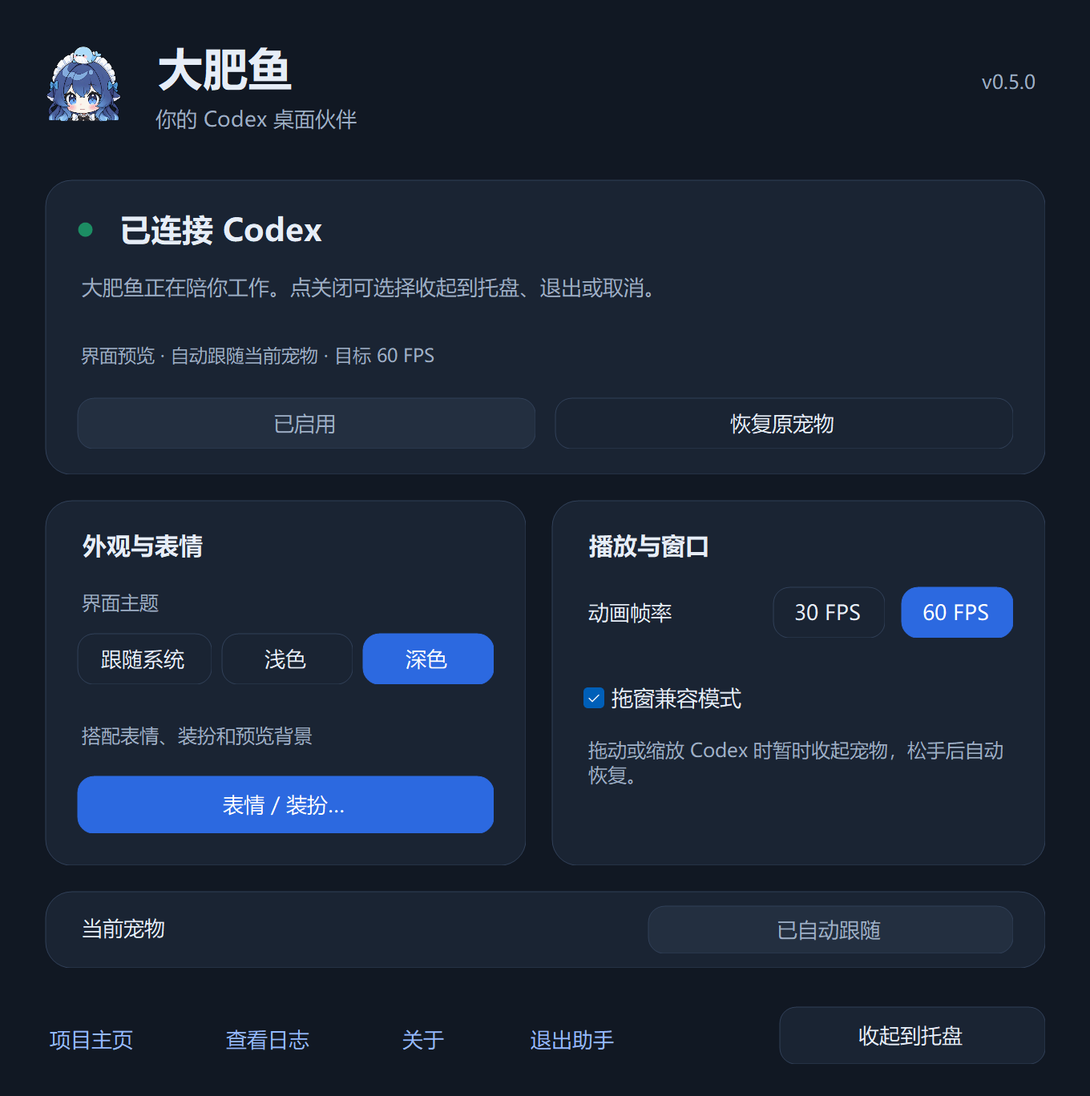
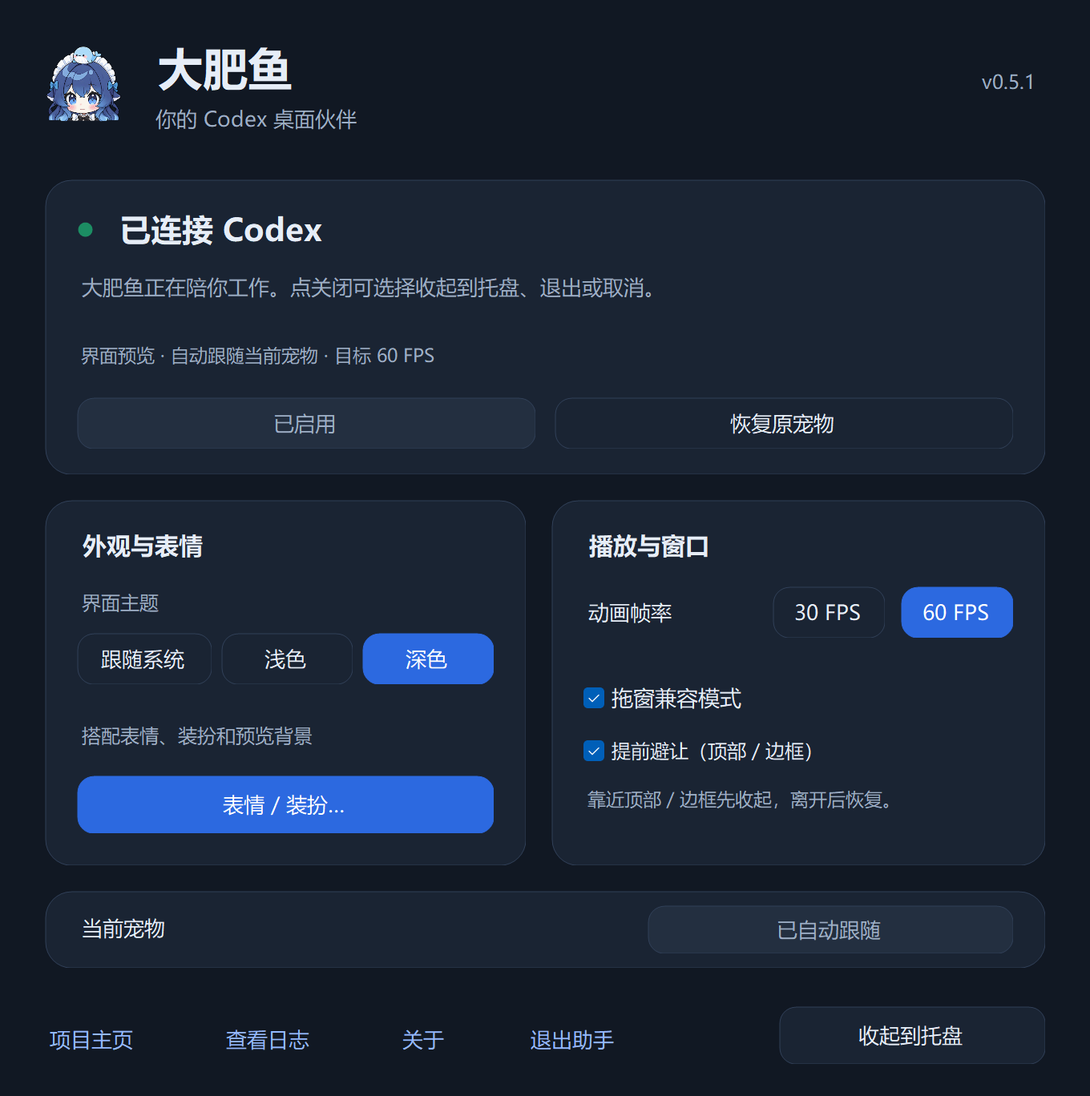
Add optional early avoidance before dragging Codex windows

Changed region(s): [[0.525, 0.6754, 0.9265, 0.7368], [0.9265, 0.0614, 0.9574, 0.0921]]

diff --git a/native/NativeDragGuard.cs b/native/NativeDragGuard.cs
@@ -8,6 +8,7 @@ internal sealed class NativeDragGuard : IDisposable {
     private delegate void EventCallback(IntPtr hook,uint evt,IntPtr window,int objectId,int childId,uint thread,uint time);
     private delegate bool WindowCallback(IntPtr window,IntPtr parameter);
     [StructLayout(LayoutKind.Sequential)] private struct Bounds { public int left,top,right,bottom; }
+    [StructLayout(LayoutKind.Sequential)] private struct Point { public int x,y; }
     [StructLayout(LayoutKind.Sequential)] private struct GuiInfo { public uint size,flags;public IntPtr active,focus,capture,menu,movesize,caret;public int left,top,right,bottom; }
     [DllImport("user32.dll")] private static extern IntPtr SetWinEventHook(uint min,uint max,IntPtr module,EventCallback callback,uint process,uint thread,uint flags);
     [DllImport("user32.dll")] private static extern bool UnhookWinEvent(IntPtr hook);
@@ -19,24 +20,41 @@ internal sealed class NativeDragGuard : IDisposable {
     [DllImport("user32.dll")] private static extern bool IsWindow(IntPtr window);
     [DllImport("user32.dll")] private static extern bool IsWindowVisible(IntPtr window);
     [DllImport("user32.dll")] private static extern bool ShowWindowAsync(IntPtr window,int command);
+    [DllImport("user32.dll")] private static extern bool GetCursorPos(out Point point);
+    [DllImport("user32.dll")] private static extern IntPtr WindowFromPoint(Point point);
+    [DllImport("user32.dll")] private static extern IntPtr GetAncestor(IntPtr window,uint flags);
+    [DllImport("user32.dll")] private static extern short GetAsyncKeyState(int key);
+    [DllImport("user32.dll")] private static extern uint GetDpiForWindow(IntPtr window);
+    [DllImport("user32.dll",CharSet=CharSet.Unicode)] private static extern IntPtr SendMessageTimeout(IntPtr window,uint message,IntPtr wparam,IntPtr lparam,uint flags,uint timeout,out UIntPtr result);
     private readonly Action<bool> changed;
+    private readonly Func<bool> sampleFrame;
     private readonly EventCallback callback;
     private readonly Timer watchdog=new Timer();
+    private readonly Timer proximity=new Timer();
     private IntPtr hook,window;
     private IntPtr petWindow;
     private bool fastHidden;
     private uint process,thread;
-    private bool moving;
+    private bool moving,avoiding,earlyAvoidance,nearFrame;
+    private DateTime lastNear;
     internal bool Registered { get { return hook!=IntPtr.Zero; } }
     internal int FastHideCount {get;private set;}
-    internal NativeDragGuard(Action<bool> action) { changed=action;callback=Receive;watchdog.Interval=250;watchdog.Tick+=delegate { CheckEnded(); }; }
+    internal NativeDragGuard(Action<bool> action) : this(action,null) {}
+    internal NativeDragGuard(Action<bool> action,Func<bool> frameSampler) {
+        changed=action;sampleFrame=frameSampler??PointerNearFrame;callback=Receive;
+        watchdog.Interval=250;watchdog.Tick+=delegate { CheckEnded(); };
+        proximity.Interval=32;proximity.Tick+=delegate { CheckProximity(); };
+    }
     internal void Configure(uint target,bool enabled) {
         target=enabled?target:0;if(target==process&&((target==0)||Registered))return;
-        if(hook!=IntPtr.Zero)UnhookWinEvent(hook);hook=IntPtr.Zero;SetMoving(false);petWindow=IntPtr.Zero;process=target;
+        if(hook!=IntPtr.Zero)UnhookWinEvent(hook);hook=IntPtr.Zero;nearFrame=false;SetMoving(false);PublishAvoidance();petWindow=IntPtr.Zero;process=target;
         if(target!=0){hook=SetWinEventHook(0xA,0xB,IntPtr.Zero,callback,target,0,0);if(hook==IntPtr.Zero)Program.UiLog("Window drag compatibility: native event registration unavailable.");}
+        UpdateProximityTimer();
     }
+    internal void SetEarlyAvoidance(bool value) {if(earlyAvoidance==value)return;earlyAvoidance=value;if(!value){nearFrame=false;PublishAvoidance();}UpdateProximityTimer();}
+    private void UpdateProximityTimer(){if(earlyAvoidance&&process!=0)proximity.Start();else proximity.Stop();}
     internal void TrackPet(uint target,int x,int y,int width,int height) {
-        if(target==0||target!=process||moving)return;
+        if(target==0||target!=process||avoiding)return;
         uint owner;if(petWindow!=IntPtr.Zero&&IsWindow(petWindow)){GetWindowThreadProcessId(petWindow,out owner);if(owner==target&&(GetStyle(petWindow,-20).ToInt64()&0x08000080)!=0)return;}
         petWindow=IntPtr.Zero;long best=120;
         EnumWindows(delegate(IntPtr candidate,IntPtr ignored){GetWindowThreadProcessId(candidate,out owner);Bounds r;if(owner!=target||!IsWindowVisible(candidate)||(GetStyle(candidate,-20).ToInt64()&0x08000080)==0||!GetWindowRect(candidate,out r))return true;long score=Math.Abs((long)r.left-x)+Math.Abs((long)r.top-y)+Math.Abs((long)(r.right-r.left)-width)+Math.Abs((long)(r.bottom-r.top)-height);if(score<best){best=score;petWindow=candidate;}return true;},IntPtr.Zero);
@@ -44,9 +62,37 @@ internal sealed class NativeDragGuard : IDisposable {
     private bool ValidPet(){uint owner;if(petWindow==IntPtr.Zero||!IsWindow(petWindow))return false;GetWindowThreadProcessId(petWindow,out owner);return owner==process&&(GetStyle(petWindow,-20).ToInt64()&0x08000080)!=0;}
     private void SetMoving(bool value) {
         if(moving==value)return;moving=value;
-        if(value){if(ValidPet()&&IsWindowVisible(petWindow))fastHidden=ShowWindowAsync(petWindow,0);if(fastHidden)FastHideCount++;watchdog.Start();}
-        else{watchdog.Stop();if(fastHidden&&ValidPet())ShowWindowAsync(petWindow,4);fastHidden=false;}
+        if(value)watchdog.Start();else watchdog.Stop();PublishAvoidance();
+    }
+    private void PublishAvoidance() {
+        bool value=moving||(earlyAvoidance&&nearFrame);if(avoiding==value)return;avoiding=value;
+        if(value){if(ValidPet()&&IsWindowVisible(petWindow))fastHidden=ShowWindowAsync(petWindow,0);if(fastHidden)FastHideCount++;}
+        else{if(fastHidden&&ValidPet())ShowWindowAsync(petWindow,4);fastHidden=false;}
         try { changed(value); } catch { Program.UiLog("Window drag compatibility: controller pipe unavailable."); }
+    }
+    private void CheckProximity() {
+        bool near=false;try{near=sampleFrame();}catch{near=false;}
+        if(near){nearFrame=true;lastNear=DateTime.UtcNow;}
+        // Keep a drag hidden across child windows and brief gaps at frame edges.
+        else if(!moving&&(!avoiding||(GetAsyncKeyState(1)&0x8000)==0)&&(DateTime.UtcNow-lastNear).TotalMilliseconds>=200)nearFrame=false;
+        PublishAvoidance();
+    }
+    internal static bool IsFrameArea(int hit,int x,int y,int left,int top,int right,int bottom,int dpi) {
+        if(x<left||x>=right||y<top||y>=bottom)return false;
+        if(hit==2||(hit>=10&&hit<=18))return true;
+        if(hit!=1&&hit!=3&&hit!=8&&hit!=9&&hit!=20&&hit!=21)return false;
+        int edge=Math.Max(4,(int)Math.Round(8*Math.Max(96,dpi)/96.0)),header=(int)Math.Round(48*Math.Max(96,dpi)/96.0);
+        return y-top<header||x-left<edge||right-x<=edge||bottom-y<=edge;
+    }
+    private bool PointerNearFrame() {
+        Point point;if(!GetCursorPos(out point))return false;IntPtr target=GetAncestor(WindowFromPoint(point),2);if(target==IntPtr.Zero)return false;
+        uint owner;GetWindowThreadProcessId(target,out owner);if(owner!=process||(GetStyle(target,-20).ToInt64()&0x08000080)!=0)return false;
+        Bounds r;if(!GetWindowRect(target,out r))return false;uint dpi=GetDpiForWindow(target);if(dpi==0)dpi=96;
+        if(!IsFrameArea(1,point.x,point.y,r.left,r.top,r.right,r.bottom,(int)dpi))return false;
+        // Query only the selected Codex frame, with a bounded wait. This does not forward input.
+        UIntPtr result;int packed=unchecked((point.x&0xffff)|((point.y&0xffff)<<16));
+        if(SendMessageTimeout(target,0x84,IntPtr.Zero,new IntPtr(packed),0x23,12,out result)==IntPtr.Zero)return false;
+        int hit=unchecked((int)result.ToUInt64());return IsFrameArea(hit,point.x,point.y,r.left,r.top,r.right,r.bottom,(int)dpi);
     }
     private void Receive(IntPtr source,uint evt,IntPtr target,int objectId,int childId,uint eventThread,uint time) {
         if(target==IntPtr.Zero||objectId!=0||childId!=0)return;
@@ -56,5 +102,5 @@ internal sealed class NativeDragGuard : IDisposable {
         window=target;thread=eventThread;SetMoving(true);
     }
     private void CheckEnded() { var info=new GuiInfo {size=(uint)Marshal.SizeOf(typeof(GuiInfo))};if(!GetGUIThreadInfo(thread,ref info)||(info.flags&2)==0||info.movesize!=window)SetMoving(false); }
-    public void Dispose() { Configure(0,false);watchdog.Dispose();GC.KeepAlive(callback); }
+    public void Dispose() { Configure(0,false);watchdog.Dispose();proximity.Dispose();GC.KeepAlive(callback); }
 }

diff --git a/native/Launcher.cs b/native/Launcher.cs
@@ -85,7 +85,7 @@ internal static class Program {
             dashboard.UpdateState(state=="restore-warning"?"大肥鱼已停用，原宠物未显示":state=="waiting"?"等待 Codex 正常退出":state=="error"?"暂未连接":"已连接 Codex",
                 state=="restore-warning"?"刷新宠物窗口后，原图仍未加载。可再次恢复，或启用大肥鱼。":state=="waiting"?"请完成当前工作，再从系统托盘完整退出 Codex。助手会随后正常重开。":state=="error"?"角色暂未加载完成。可以重试连接，或查看日志了解原因。":"大肥鱼正在陪你工作。点关闭可选择收起到托盘、退出或取消。",
                 "界面预览 · 自动跟随当前宠物 · 目标 60 FPS",state=="restore-warning"?state:state=="waiting"?"waiting":state=="error"?"error":"active",false,60,true);
-            int previewTheme=Array.IndexOf(args,"--theme");dashboard.UpdateOptions(previewTheme>=0&&previewTheme+1<args.Length?args[previewTheme+1]:Text(ReadPreferences(),"theme","system"),true,false);
+            int previewTheme=Array.IndexOf(args,"--theme");dashboard.UpdateOptions(previewTheme>=0&&previewTheme+1<args.Length?args[previewTheme+1]:Text(ReadPreferences(),"theme","system"),true,args.Contains("--early-avoidance"),false);
             form=dashboard;
         }
         using(form) {
@@ -114,7 +114,7 @@ internal static class Program {
         using(var reader=new StreamReader(stream,Encoding.UTF8))return new JavaScriptSerializer().Deserialize<Dictionary<string,object>>(reader.ReadToEnd());
     }
     internal static string Text(Dictionary<string,object> data,string key,string fallback="") { object value;return data!=null&&data.TryGetValue(key,out value)&&value!=null?Convert.ToString(value):fallback; }
-    internal static Dictionary<string,object> ReadPreferences() {try {return ReadJson(Path.Combine(Data,"preferences.json"));}catch{return new Dictionary<string,object>{{"theme","system"},{"dragCompatibility",true},{"previewBackground","theme"}};} }
+    internal static Dictionary<string,object> ReadPreferences() {try {return ReadJson(Path.Combine(Data,"preferences.json"));}catch{return new Dictionary<string,object>{{"theme","system"},{"dragCompatibility",true},{"earlyAvoidance",false},{"previewBackground","theme"}};} }
     internal static void ApplyTheme(string theme) {if(!Palette.Configure(theme))return;foreach(Form form in Application.OpenForms){var app=form as AppForm;if(app!=null)app.RefreshTheme();} }
     internal static bool CoreReady() {
         try {
@@ -173,7 +173,7 @@ internal sealed class PetContext : ApplicationContext {
     private bool appearanceOpen;
     private string restoreNotice="";
     private string theme="system";
-    private bool dragCompatibility=true;
+    private bool dragCompatibility=true,earlyAvoidance;
     private string version="",heading="准备连接",detail="正在准备大肥鱼的运行环境。",displayState="starting";
     internal PetContext() {
         dragGuard=new NativeDragGuard(delegate(bool moving) {if(controller!=null&&!controller.HasExited){controller.StandardInput.WriteLine("{\"type\":\"window-drag\",\"moving\":"+(moving?"true":"false")+",\"nativeFastHideCount\":"+dragGuard.FastHideCount+"}");controller.StandardInput.Flush();}});
@@ -185,6 +185,7 @@ internal sealed class PetContext : ApplicationContext {
         panel.AppearanceRequested=OpenAppearance;
         panel.ThemeRequested=delegate(string choice){SavePreference("theme",choice);};
         panel.DragCompatibilityRequested=delegate(bool choice){SavePreference("dragCompatibility",choice);};
+        panel.EarlyAvoidanceRequested=delegate(bool choice){SavePreference("earlyAvoidance",choice);};
         var menu=new ContextMenuStrip { Font=Palette.Font(9.5f) };
         menu.Items.Add("打开控制面板",null,delegate { ShowPanel(); });menu.Items.Add(new ToolStripSeparator());
         enableMenu=(ToolStripMenuItem)menu.Items.Add("启用大肥鱼",null,delegate { StartPet(); });
@@ -214,14 +215,14 @@ internal sealed class PetContext : ApplicationContext {
     }
     private void ReadSettings() {
         try { var settings=Program.ReadJson(Path.Combine(Program.Data,"settings.json"));fps=Convert.ToInt32(settings["fps"]);automatic=!settings.ContainsKey("petId")||settings["petId"]==null; } catch {}
-        var preferences=Program.ReadPreferences();theme=Program.Text(preferences,"theme","system");dragCompatibility=!Program.Text(preferences,"dragCompatibility","True").Equals("False",StringComparison.OrdinalIgnoreCase);Program.ApplyTheme(theme);
+        var preferences=Program.ReadPreferences();theme=Program.Text(preferences,"theme","system");dragCompatibility=!Program.Text(preferences,"dragCompatibility","True").Equals("False",StringComparison.OrdinalIgnoreCase);earlyAvoidance=Program.Text(preferences,"earlyAvoidance","False").Equals("True",StringComparison.OrdinalIgnoreCase);Program.ApplyTheme(theme);
     }
     private void SavePreference(string key,object value) {if(busy||closing)return;string encoded=Convert.ToBase64String(Encoding.UTF8.GetBytes(new JavaScriptSerializer().Serialize(new Dictionary<string,object>{{key,value}})));Work(delegate{Program.Run("preferences.mjs","set "+encoded);},delegate{ReadSettings();Render();});}
     private void Render() {
         if(panel.IsDisposed)return;
         string metadata=(String.IsNullOrEmpty(version)?"本机连接":"Codex "+version)+" · "+(automatic?"自动跟随当前宠物":"固定宠物")+" · 目标 "+fps+" FPS";
         panel.UpdateState(heading,detail,metadata,displayState,busy,fps,automatic);
-        panel.UpdateOptions(theme,dragCompatibility,busy);
+        panel.UpdateOptions(theme,dragCompatibility,earlyAvoidance,busy);
         enableMenu.Enabled=!busy&&displayState!="active";restoreMenu.Enabled=!busy&&displayState!="paused";
         followMenu.Enabled=!busy;
         fps30Menu.Checked=fps==30;fps60Menu.Checked=fps==60;fps30Menu.Enabled=!busy;fps60Menu.Enabled=!busy;
@@ -303,7 +304,7 @@ internal sealed class PetContext : ApplicationContext {
             if(controller==null||Convert.ToInt32(status["controllerPid"])!=controller.Id)return;
             version=Program.Text(status,"version");ReadSettings();
             string state=Program.Text(status,"status");
-            uint appPid=status.ContainsKey("appPid")&&status["appPid"]!=null?Convert.ToUInt32(status["appPid"]):0;dragGuard.Configure(appPid,dragCompatibility&&state=="active");
+            uint appPid=status.ContainsKey("appPid")&&status["appPid"]!=null?Convert.ToUInt32(status["appPid"]):0;dragGuard.SetEarlyAvoidance(earlyAvoidance);dragGuard.Configure(appPid,dragCompatibility&&state=="active");
             object rawStatus,rawBounds;if(status.TryGetValue("lastStatus",out rawStatus)&&rawStatus is Dictionary<string,object>&&((Dictionary<string,object>)rawStatus).TryGetValue("windowBounds",out rawBounds)&&rawBounds is Dictionary<string,object>){var bounds=(Dictionary<string,object>)rawBounds;double dpr=Convert.ToDouble(bounds["dpr"]);dragGuard.TrackPet(appPid,(int)Math.Round(Convert.ToDouble(bounds["x"])*dpr),(int)Math.Round(Convert.ToDouble(bounds["y"])*dpr),(int)Math.Round(Convert.ToDouble(bounds["width"])*dpr),(int)Math.Round(Convert.ToDouble(bounds["height"])*dpr));}
             if(state=="active")Display("已连接 Codex","大肥鱼正在陪你工作。收起到托盘后，助手会继续运行。","active");
             else if(state=="waiting-for-codex-exit")Display("等待 Codex 正常退出","请完成当前工作，再从系统托盘完整退出 Codex。助手会随后正常重开。","waiting");

diff --git a/native/Dashboard.cs b/native/Dashboard.cs
@@ -148,11 +148,11 @@ internal sealed class Dashboard : AppForm {
     internal Action EnableRequested,RestoreRequested,FollowRequested,HideRequested,ExitRequested,LogsRequested,AboutRequested,AppearanceRequested;
     internal Action<int> FpsRequested;
     internal Action<string> ThemeRequested;
-    internal Action<bool> DragCompatibilityRequested;
-    private readonly Label title,description,metadata;
+    internal Action<bool> DragCompatibilityRequested,EarlyAvoidanceRequested;
+    private readonly Label title,description,metadata,dragHint;
     private readonly StatusDot dot;
     private readonly SoftButton enable,restore,fps30,fps60,follow,appearance,themeSystem,themeLight,themeDark;
-    private readonly CheckBox dragCompatibility;
+    private readonly CheckBox dragCompatibility,earlyAvoidance;
     private readonly PictureBox logo;
     private bool closeChoiceOpen,updatingPreferences;
     internal bool AllowClose;
@@ -184,7 +184,8 @@ internal sealed class Dashboard : AppForm {
         fps30=new SoftButton("30 FPS",138,54,70,32);fps30.Name="Fps30";fps30.Click+=delegate {if(FpsRequested!=null)FpsRequested(30);};settings.Controls.Add(fps30);
         fps60=new SoftButton("60 FPS",218,54,70,32);fps60.Name="Fps60";fps60.Click+=delegate {if(FpsRequested!=null)FpsRequested(60);};settings.Controls.Add(fps60);
         dragCompatibility=new CheckBox {Text="拖窗兼容模式",Name="DragCompatibility",Bounds=new Rectangle(20,110,268,28),Font=Palette.Font(10)};dragCompatibility.CheckedChanged+=delegate {if(!updatingPreferences&&DragCompatibilityRequested!=null)DragCompatibilityRequested(dragCompatibility.Checked);};settings.Controls.Add(dragCompatibility);
-        var dragHint=Palette.Label(settings,"拖动或缩放 Codex 时暂时收起宠物，松手后自动恢复。",20,148,268,50,9);dragHint.ForeColor=Palette.Muted;
+        earlyAvoidance=new CheckBox {Text="提前避让（顶部／边框）",Name="EarlyAvoidance",Bounds=new Rectangle(20,144,268,26),Font=Palette.Font(9)};earlyAvoidance.CheckedChanged+=delegate {if(!updatingPreferences&&EarlyAvoidanceRequested!=null)EarlyAvoidanceRequested(earlyAvoidance.Checked);};settings.Controls.Add(earlyAvoidance);
+        dragHint=Palette.Label(settings,"拖动时收起宠物，松手后恢复。",20,179,268,38,8.5f);dragHint.ForeColor=Palette.Muted;
         var binding=new CardPanel {Bounds=new Rectangle(28,556,624,48)};Controls.Add(binding);
         Palette.Label(binding,"当前宠物",20,14,180,24,9.5f);
         follow=new SoftButton("恢复自动跟随",376,9,228,30);follow.Name="FollowPet";follow.Click+=delegate {if(FollowRequested!=null)FollowRequested();};binding.Controls.Add(follow);
@@ -209,7 +210,7 @@ internal sealed class Dashboard : AppForm {
         FinishLayout();
     }
 
-    internal void UpdateOptions(string theme,bool compatibility,bool busy) {updatingPreferences=true;try {themeSystem.Primary=theme=="system";themeLight.Primary=theme=="light";themeDark.Primary=theme=="dark";themeSystem.Enabled=themeLight.Enabled=themeDark.Enabled=!busy;dragCompatibility.Checked=compatibility;dragCompatibility.Enabled=!busy;}finally{updatingPreferences=false;}}
+    internal void UpdateOptions(string theme,bool compatibility,bool early,bool busy) {updatingPreferences=true;try {themeSystem.Primary=theme=="system";themeLight.Primary=theme=="light";themeDark.Primary=theme=="dark";themeSystem.Enabled=themeLight.Enabled=themeDark.Enabled=!busy;dragCompatibility.Checked=compatibility;dragCompatibility.Enabled=!busy;earlyAvoidance.Checked=early;earlyAvoidance.Enabled=compatibility&&!busy;dragHint.Text=!compatibility?"已关闭拖窗兼容与提前避让。":early?"靠近顶部／边框先收起，离开后恢复。":"拖动时收起宠物，松手后恢复。";}finally{updatingPreferences=false;}}
     internal void UpdateState(string heading,string detail,string meta,string state,bool busy,int fps,bool automatic) {
         title.Text=heading;description.Text=detail;metadata.Text=meta;
         dot.DotColor=state=="active"?Palette.Green:state=="error"?Palette.Red:state=="paused"?Palette.Muted:Palette.Amber;

diff --git a/native/AssemblyInfo.cs b/native/AssemblyInfo.cs
@@ -5,8 +5,8 @@ using System.Runtime.InteropServices;
 [assembly: AssemblyCompany("Chris-Geeky")]
 [assembly: AssemblyProduct("大肥鱼 · Codex 宠物助手")]
 [assembly: AssemblyCopyright("Copyright © 2026 Chris-Geeky")]
-[assembly: AssemblyVersion("0.5.0.0")]
-[assembly: AssemblyFileVersion("0.5.0.0")]
-[assembly: AssemblyInformationalVersion("0.5.0")]
+[assembly: AssemblyVersion("0.5.1.0")]
+[assembly: AssemblyFileVersion("0.5.1.0")]
+[assembly: AssemblyInformationalVersion("0.5.1")]
 [assembly: System.Runtime.Versioning.TargetFramework(".NETFramework,Version=v4.8",FrameworkDisplayName=".NET Framework 4.8")]
 [assembly: ComVisible(false)]

diff --git a/RELEASE_NOTES.md b/RELEASE_NOTES.md
@@ -1,15 +1,13 @@
-Windows x64 便携预览版：拖窗兼容模式、深浅主题、更多自动表情。
+Windows x64 便携预览版：增加可随时关闭的提前避让。
 
-- 完整解压 codex-dafeiyu-live2d-v0.5.0-win-x64.zip，双击 CodexDafeiyu.exe。已有配置、装扮和 Live2D Core 可继续使用。
-- 默认开启可关闭的拖窗兼容模式：原生助手监听 Codex 的移动／缩放事件，暂时收起原来可见的宠物，结束后恢复。原本隐藏的宠物保持隐藏；关闭模式、停止控制器及漏失结束通知时有恢复处理。这是绕法，拖动期间宠物暂时不可见。
-- 重新整理助手和表情窗口的字体、间距、卡片与按钮，支持系统／浅色／深色主题；预览背景可单独选浅色、深色、棋盘或跟随主题。
-- 表情与装扮分成页签，新增可直接点击的 20 种表情图库。
-- 自动表情由原来的 4 种、仅待机空隙触发，改成默认全部 20 种分轮播放，也可选日常 12 种。普通任务运行时继续变化，状态切换优先表达约 14 秒，随后恢复完整轮换；手动固定和关闭轮换保持有效。
-- 待机与普通任务的背景动作覆盖全部 7 个非待机动作，减少固定几个动作反复出现。
-- 保留 44 项模型配置、30/60 FPS、命中轮廓、原头像 B 档图标、关闭选择和原图加载验证。
+- 完整解压 codex-dafeiyu-live2d-v0.5.1-win-x64.zip，双击 CodexDafeiyu.exe。已有装扮、主题、帧率和 Live2D Core 继续使用。
+- 在“播放与窗口”卡片新增“提前避让（顶部／边框）”，默认关闭，需配合拖窗兼容模式使用。鼠标进入 Codex 顶部或边框时先收起宠物，离开约 0.2 秒后恢复；拖动中保持收起，松手后若鼠标仍在顶部，移开后才恢复。
+- 可随时取消勾选，回到普通拖窗模式。关闭兼容模式、正常退出助手会恢复由助手收起的宠物；原本隐藏的宠物保持隐藏。设置保存在本机，下次启动继续使用。
+- 仅查询已连接 Codex 的窗口，保留原生移动／缩放通知与恢复处理，不添加全局鼠标钩子或修改 Codex 文件。
+- 保留 v0.5.0 的深浅主题、独立预览背景、20 项表情图库、全部 20 种自动表情轮换和 7 个非待机背景动作。
 
-v0.5.0 检查：24 项单元与策略、35 项真实模型浏览器、30 项编辑器、37 项原生界面／图标、9 项原生拖动通知、11 项原图恢复。覆盖 20 种表情不重复轮换、任务运行时换脸、深浅主题和独立背景、隐藏状态保留、快速松手时串行恢复，以及漏失结束事件的恢复。隔离测试不能代替每台电脑的实际拖动验收。
+验证：24 项单元与策略、39 项原生界面／图标、23 项原生拖动与提前避让检查、30 项编辑器检查。覆盖旧设置迁移、开关依赖、提前收起、短暂边缘间隙、离开后恢复、关闭恢复、原本隐藏不唤醒，以及 DPI 与负坐标。真实模型与原图恢复沿用 v0.5.0 已通过的 35／11 项检查，角色渲染逻辑未改动。
 
-仍是非官方本地适配，客户端更新可能影响兼容；另一台电脑首次使用尚待验证。Windows 底层拖窗问题没有根治，可继续采用左侧摆放或手动收起。原图资源持续不可用时不能保证恢复图片。未进行发布者数字签名。代码 MIT，角色与头像 CC BY-NC-SA 4.0，其余组件适用包内各自条款。
+已知限制：v0.5.0 普通模式及快速收起版的本机实测均仍有开头闪烁，随后拖动顺畅，松手恢复正常。v0.5.1 提前避让为异步收起留出时间，实际拖动效果尚待用户验收；极快地移入并拖动仍可能来不及，不能保证完全无闪烁。点击 Codex 顶部菜单也可能暂时收起宠物。客户端底层问题未根治，仍可采用左侧摆放或手动隐藏的绕法。另一台电脑首次使用尚待验证。
 
-拖窗实测说明：初版在拖动开始时仍有短暂闪烁，随后顺畅。修订已加入原生快速收起、预热连接和快速松手取消处理；本机复测仍有开头闪烁，后续拖动顺畅、松手恢复正常。当前未完全解决起步阶段，可继续采用左侧摆放绕法。
+仍为非官方本地适配，客户端更新可能影响兼容。未进行发布者数字签名。代码 MIT，角色与头像 CC BY-NC-SA 4.0，其余组件适用包内各自条款。

diff --git a/docs/windows-window-drag.md b/docs/windows-window-drag.md
@@ -2,11 +2,21 @@
 
 在部分 Windows 环境中，原生宠物窗口显示时，拖动 Codex 主窗口会让位置来回跳动。当前有两个可用绕法：将宠物放到屏幕最左侧，或移动主窗口前暂时隐藏宠物。
 
-## v0.5.0 拖窗兼容模式
+## v0.5.1 提前避让（可选）
+
+在助手“播放与窗口”卡片中，保持“拖窗兼容模式”开启，再勾选“提前避让（顶部／边框）”。此独立选项默认关闭，随时可以取消，本机记住选择。
+
+鼠标进入 Codex 顶部或缩放边框时提前收起原来可见的宠物，离开约 200 毫秒后恢复。拖动过程中保持收起；松手时鼠标若仍在顶部，移开后才恢复。短暂跨过边缘不会反复收起／显示。关闭提前避让会回到普通拖窗模式；关闭兼容模式或正常退出助手时，会恢复由助手暂时收起的宠物。原本隐藏的宠物保持隐藏。
+
+实现使用仅针对已连接 Codex 进程的窗口查询、限时原生命中检测和现有收起流程；未添加全局鼠标钩子或修改 Codex 文件。顶部自定义标题区包含距顶部约 48 个逻辑像素，因此点击顶部菜单也可能暂时收起宠物。该选项为异步关闭鼠标转发留出时间；极快地移入并拖动仍可能来不及，不能承诺彻底消除闪烁。实际拖动效果需要用户验收。
+
+参考：[Windows 命中检测](https://learn.microsoft.com/en-us/windows/win32/inputdev/wm-nchittest)、[限时窗口查询](https://learn.microsoft.com/en-us/windows/win32/api/winuser/nf-winuser-sendmessagetimeoutw)。
+
+## v0.5.0 普通拖窗兼容模式
 
 v0.5.0 的原生助手提供可关闭的“拖窗兼容模式”，将收起／恢复流程自动化。它监听当前 Codex 进程的移动／缩放事件；漏掉结束通知时检查原生移动状态并恢复。关闭兼容模式、正常停止控制器时也会恢复由它收起的宠物。纯命令行启动不启用 Windows 原生事件监听，仍可使用左侧位置或手动隐藏。这是兼容处理，拖动期间宠物短暂不可见，底层问题仍待解决。
 
-修订使用已核对的宠物原生窗口进行快速收起，并预热本机连接，降低收起延迟。初版用户反馈开头仍短暂闪烁；修订的开头表现尚待复测。
+修订使用已核对的宠物原生窗口进行快速收起，并预热本机连接，降低收起延迟。初版和快速收起修订的本机实测均为：开头仍短暂闪烁，随后拖动顺畅，松手恢复正常。尚未完全解决起步阶段。
 
 ## 手动绕法
 

diff --git a/README.md b/README.md
@@ -12,6 +12,8 @@
 
 v0.5.0 整理了字体、间距和卡片布局，提供系统／浅色／深色主题。“拖窗兼容模式”默认开启：拖动或缩放 Codex 的普通窗口时暂时收起原生宠物窗口，结束后恢复；原本隐藏的宠物保持隐藏。可随时关闭此模式。
 
+v0.5.1 增加独立的 **“提前避让（顶部／边框）”** 开关，位于“播放与窗口”卡片。普通模式在部分电脑上起步仍会闪烁；提前避让让鼠标进入 Codex 顶部或边框时就先收起宠物，离开约 0.2 秒后恢复。松手后若鼠标仍在顶部，宠物会继续收起，移开才恢复。此选项默认关闭，需要先开启拖窗兼容模式，可随时取消；设置会保存在本机。它为收起流程留出时间，但不保证所有电脑、快速点击拖动都完全无闪烁，也未修复客户端底层问题。
+
 <img src="docs/control-panel.png" width="680" alt="大肥鱼浅色控制面板" />
 
 [查看深色控制面板](docs/control-panel-dark.png)
